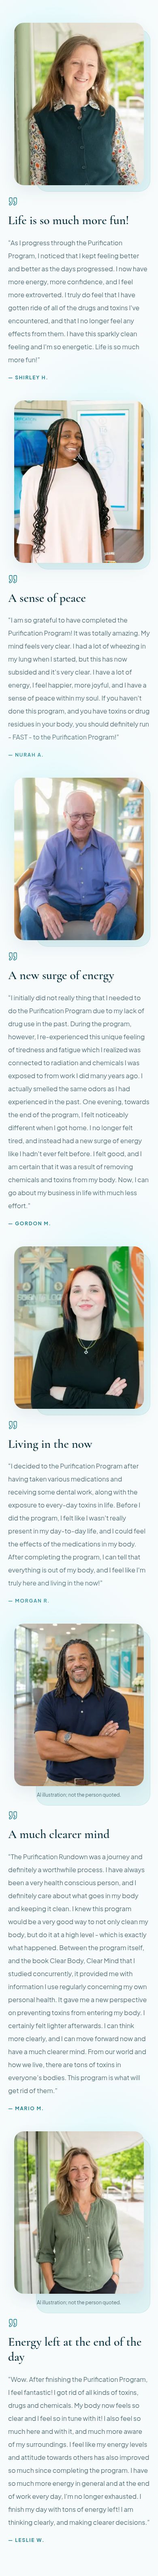
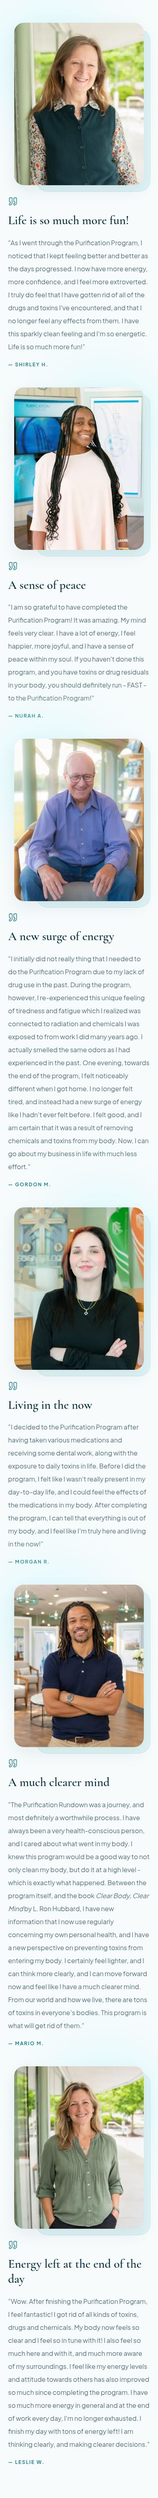
Revise Results copy, portrait framing and Mario illustration

Changed region(s): [[0.0308, 0.0, 0.9538, 0.4994], [0.0308, 0.4994, 0.9231, 0.8116], [0.0615, 0.8428, 0.9538, 0.9989]]

diff --git a/content/results.ts b/content/results.ts
@@ -1,10 +1,10 @@
 // Local success stories and photo pairings supplied by the site owner.
-// Mario and Leslie use clearly labeled temporary AI illustrations.
+// Mario and Leslie use generated illustrative portraits.
 export const resultStories = [
   {
     id: "shirley-h",
     title: "Life is so much more fun!",
-    quote: "As I progress through the Purification Program, I noticed that I kept feeling better and better as the days progressed. I now have more energy, more confidence, and I feel more extroverted. I truly do feel that I have gotten ride of all of the drugs and toxins I've encountered, and that I no longer feel any effects from them. I have this sparkly clean feeling and I'm so energetic. Life is so much more fun!",
+    quote: "As I went through the Purification Program, I noticed that I kept feeling better and better as the days progressed. I now have more energy, more confidence, and I feel more extroverted. I truly do feel that I have gotten rid of all of the drugs and toxins I've encountered, and that I no longer feel any effects from them. I have this sparkly clean feeling and I'm so energetic. Life is so much more fun!",
     attribution: "Shirley H.",
     image: "/images/results/shirley-h.webp",
     imageAlt: "Portrait of Shirley H.",
@@ -13,9 +13,9 @@ export const resultStories = [
   {
     id: "nurah-a",
     title: "A sense of peace",
-    quote: "I am so grateful to have completed the Purification Program! It was totally amazing. My mind feels very clear. I had a lot of wheezing in my lung when I started, but this has now subsided and it's very clear. I have a lot of energy, I feel happier, more joyful, and I have a sense of peace within my soul. If you haven't done this program, and you have toxins or drug residues in your body, you should definitely run - FAST - to the Purification Program!",
+    quote: "I am so grateful to have completed the Purification Program! It was amazing. My mind feels very clear. I have a lot of energy, I feel happier, more joyful, and I have a sense of peace within my soul. If you haven't done this program, and you have toxins or drug residuals in your body, you should definitely run - FAST - to the Purification Program!",
     attribution: "Nurah A.",
-    image: "/images/results/nurah-a.webp",
+    image: "/images/results/nurah-a-centered.webp",
     imageAlt: "Portrait of Nurah A.",
     illustration: false,
   },
@@ -31,7 +31,7 @@ export const resultStories = [
   {
     id: "morgan-r",
     title: "Living in the now",
-    quote: "I decided to the Purification Program after having taken various medications and receiving some dental work, along with the exposure to every-day toxins in life. Before I did the program, I felt like I wasn't really present in my day-to-day life, and I could feel the effects of the medications in my body. After completing the program, I can tell that everything is out of my body, and I feel like I'm truly here and living in the now!",
+    quote: "I decided to the Purification Program after having taken various medications and receiving some dental work, along with the exposure to daily toxins in life. Before I did the program, I felt like I wasn't really present in my day-to-day life, and I could feel the effects of the medications in my body. After completing the program, I can tell that everything is out of my body, and I feel like I'm truly here and living in the now!",
     attribution: "Morgan R.",
     image: "/images/results/morgan-r.webp",
     imageAlt: "Portrait of Morgan R.",
@@ -40,9 +40,9 @@ export const resultStories = [
   {
     id: "mario-m",
     title: "A much clearer mind",
-    quote: "The Purification Rundown was a journey and definitely a worthwhile process. I have always been a very health conscious person, and I definitely care about what goes in my body and keeping it clean. I knew this program would be a very good way to not only clean my body, but do it at a high level - which is exactly what happened. Between the program itself, and the book Clear Body, Clear Mind that I studied concurrently, it provided me with information I use regularly concerning my own personal health. It gave me a new perspective on preventing toxins from entering my body. I certainly felt lighter afterwards. I can think more clearly, and I can move forward now and have a much clearer mind. From our world and how we live, there are tons of toxins in everyone’s bodies. This program is what will get rid of them.",
+    quote: "The Purification Rundown was a journey, and most definitely a worthwhile process. I have always been a very health-conscious person, and I cared about what went in my body. I knew this program would be a good way to not only clean my body, but do it at a high level - which is exactly what happened. Between the program itself, and the book Clear Body, Clear Mind by L. Ron Hubbard, I have new information that I now use regularly concerning my own personal health, and I have a new perspective on preventing toxins from entering my body. I certainly feel lighter, and I can think more clearly, and I can move forward now and feel like I have a much clearer mind. From our world and how we live, there are tons of toxins in everyone’s bodies. This program is what will get rid of them.",
     attribution: "Mario M.",
-    image: "/images/results/mario-m-illustration.webp",
+    image: "/images/results/mario-m-refined.webp",
     imageAlt: "AI illustration of a man in a bright community-center lobby; not Mario M.",
     illustration: true,
   },

diff --git a/components/results/StoryCollection.tsx b/components/results/StoryCollection.tsx
@@ -17,12 +17,11 @@ export default function StoryCollection() {
                   <figure className="relative aspect-[4/5] overflow-hidden rounded-[1.5rem] bg-[#e5eff0] shadow-[0_15px_40px_rgba(10,64,78,0.08)]">
                     <Image src={story.image} alt={story.imageAlt} fill sizes="(max-width: 767px) 320px, (max-width: 1023px) 280px, 360px" className="object-cover object-center" />
                   </figure>
-                  {story.illustration && <p className="mt-3 text-center text-xs leading-5 text-[#56717a]">AI illustration; not the person quoted.</p>}
                 </div>
                 <div>
                   <Quote size={24} strokeWidth={1.3} className="mb-4 text-[#087487]" aria-hidden="true" />
                   <h2 className="font-display text-3xl font-semibold leading-tight text-[#0c3341] sm:text-4xl">{story.title}</h2>
-                  <blockquote className="mt-5 text-base leading-8 text-[#56717a] sm:text-lg">“{story.quote}”</blockquote>
+                  <blockquote className="mt-5 text-base leading-8 text-[#56717a] sm:text-lg">“{story.id === "mario-m" ? story.quote.split("Clear Body, Clear Mind").map((part, i) => <span key={i}>{i > 0 && <em>Clear Body, Clear Mind</em>}{part}</span>) : story.quote}”</blockquote>
                   <p className="mt-5 text-xs font-semibold uppercase tracking-[0.15em] text-[#087487]">— {story.attribution}</p>
                 </div>
               </article>

diff --git a/docs/results-local-content.md b/docs/results-local-content.md
@@ -1,9 +1,9 @@
 # Local Results content
 
-The six complete stories and first four photographs were supplied in `RESULTS PAGE.zip`. Numeric file/story ordering maps to Shirley H., Nurah A., Gordon M., Morgan R., Mario M. and Leslie W. Quote wording is preserved as supplied; headings are editorial summaries.
+The six complete stories and first four photographs were supplied in `RESULTS PAGE.zip`. Numeric file/story ordering maps to Shirley H., Nurah A., Gordon M., Morgan R., Mario M. and Leslie W. Quote wording follows the supplied text and subsequent owner revisions; headings are editorial summaries.
 
-The first four images are optimized crops of the supplied originals. Mario and Leslie use temporary generated portraits based on the requested descriptions and the supplied lobby/entrance settings. Each is visibly labeled as an AI illustration and has alt text stating it is not the contributor. These can be replaced in `content/results.ts` when actual photographs are available.
+The first four images are optimized crops of the supplied originals. Mario and Leslie use temporary generated portraits based on the requested descriptions and the supplied lobby/entrance settings. The owner requested removal of visible illustration captions; alt text continues to identify these as illustrations rather than photographs of the contributors. Mario’s portrait was subsequently refined to look younger and slimmer, with a lobby backdrop matching Mike’s photo. These can be replaced in `content/results.ts` when actual photographs are available.
 
 The existing alternating layout, decorative background panels/circles and individual-experience disclaimer remain. The home page is unchanged.
 
-Validation: targeted ESLint, TypeScript, production build and desktop/mobile browser checks (six matching stories/photos, exactly two illustration labels, image decoding and no horizontal overflow) passed. Previews: `docs/previews/results-local-desktop.jpg` and `docs/previews/results-local-mobile.jpg`.
+Validation: targeted ESLint, TypeScript, production build and desktop/mobile browser checks (six matching stories/photos, no visible illustration captions, italicized book title, image decoding and no horizontal overflow) passed. Previews: `docs/previews/results-local-desktop.jpg` and `docs/previews/results-local-mobile.jpg`.
